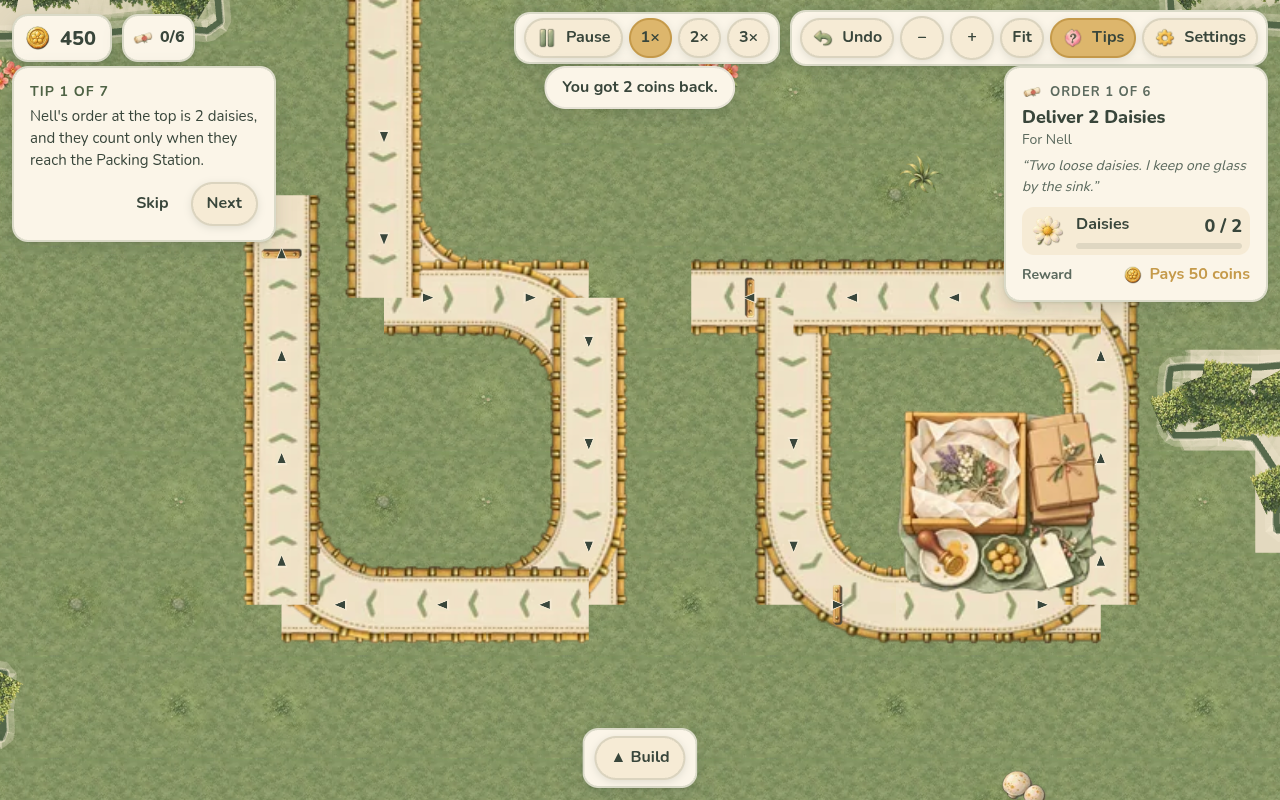
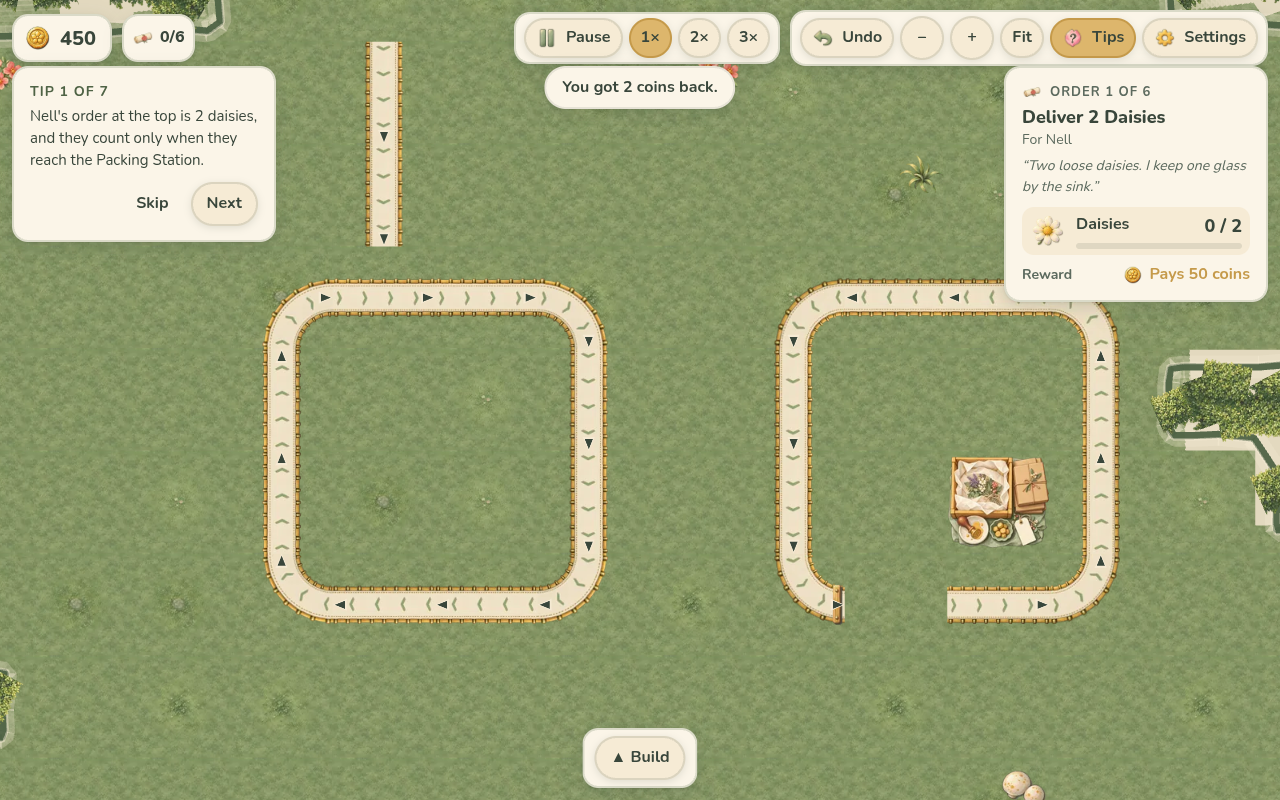
Belts: one one-tile piece per belt; pop-in tween ends at tile scale, not raw art size
The spawn tween on every placed structure ended at scale 1 (the 2x source art), so
belts drew two tiles wide and overlapped their neighbours' pieces, and machines grew
after placement. Size is now set after the first real frame and the tween settles on
the tile scale. Belt piece choice moves to src/game/beltPiece.ts with unit tests;
tools/beltloop.mjs lays true rings and asserts one 64 px piece per tile.

diff --git a/src/game/PetalScene.ts b/src/game/PetalScene.ts
@@ -5,7 +5,7 @@ import type { GameStore } from '../app/store';
 import { BELT_TICKS } from '../sim/data/balance';
 import { PLOTS, tilesOf } from '../sim/data/plots';
 import { STRUCTURES } from '../sim/data/structures';
-import { DX, DY, dirBetween, isOpenTile, opposite, rotateCCW, rotateCW } from '../sim/grid';
+import { DX, DY, dirBetween, isOpenTile, opposite } from '../sim/grid';
 import type { Dir, SimEvent, Structure, World } from '../sim/types';
 import { CameraController } from './camera';
 import { COLORS, DEPTH, TILE } from './constants';
@@ -13,6 +13,7 @@ import { placeLabelInView, type ScreenBox } from './labelPlace';
 import { DISC_SIZE, makeOverlayTextures } from './overlays';
 import { beltProgressT, itemPositionOnBelt, tileCenter } from './paths';
 import { SpriteRegistry } from './sprites';
+import { choosePiece } from './beltPiece';
 import { offset, organicOutline, resample } from './outline';
 import { COPY, fmt } from '../ui/strings';
 
@@ -144,7 +145,15 @@ export class PetalScene extends Phaser.Scene {
 
   private setImage(img: Phaser.GameObjects.Image, key: string, extraAngle = 0): void {
     const ref = this.sprites.get(key);
-    if (img.texture.key !== ref.texture || (ref.frame !== undefined && img.frame.name !== ref.frame)) img.setTexture(ref.texture, ref.frame);
+    if (img.texture.key !== ref.texture || (ref.frame !== undefined && img.frame.name !== ref.frame)) {
+      // Frames can differ in source size (144 px beds, 128 px machines); keep the display
+      // size the view chose so a texture swap never changes how big the building looks.
+      const w = img.displayWidth;
+      const h = img.displayHeight;
+      const hadReal = img.texture.key !== '__MISSING';
+      img.setTexture(ref.texture, ref.frame);
+      if (hadReal) img.setDisplaySize(w, h);
+    }
     img.setAngle(ref.angle + extraAngle);
   }
 
@@ -374,12 +383,7 @@ export class PetalScene extends Phaser.Scene {
     pennant.setDisplaySize(TILE * 0.5, TILE * 0.5);
     const disc = this.add.image(c.x, c.y, 'disc.blocked').setVisible(false).setDepth(DEPTH.badge + 1);
     disc.setDisplaySize(DISC_SIZE, DISC_SIZE);
-    const v: StructureView = { id: s.id, main, endcap, arrow, pennant, disc, beltSig: '', feeders: [], feedersAt: -1, arrowFacing: -1, sized: false };
-    if (!this.store.reducedMotion) {
-      main.setScale(0.6);
-      this.tweens.add({ targets: main, scaleX: 1, scaleY: 1, duration: 220, ease: 'Back.easeOut' });
-    }
-    return v;
+    return { id: s.id, main, endcap, arrow, pennant, disc, beltSig: '', feeders: [], feedersAt: -1, arrowFacing: -1, sized: false };
   }
 
   private feedersCached(v: StructureView, s: Structure): Dir[] {
@@ -424,12 +428,11 @@ export class PetalScene extends Phaser.Scene {
     const c = tileCenter(s.x, s.y);
     const def = STRUCTURES[s.kind];
     if (!v.sized) {
-      // Structures never move and each role has one size: set these once.
+      // Structures never move: set position and depth once. (Size is set below, after the
+      // first real texture is in, because the placeholder texture is a different size.)
       v.main.setPosition(c.x, c.y);
       v.endcap.setPosition(c.x, c.y);
-      if (s.kind === 'belt') v.main.setDisplaySize(TILE, TILE).setDepth(DEPTH.belt);
-      else v.main.setDisplaySize(STRUCTURE_SIZE, STRUCTURE_SIZE).setDepth(DEPTH.structure + s.y * 0.01);
-      v.sized = true;
+      v.main.setDepth(s.kind === 'belt' ? DEPTH.belt : DEPTH.structure + s.y * 0.01);
     }
     const tick = world.tick;
     const reduced = this.store.reducedMotion;
@@ -442,21 +445,8 @@ export class PetalScene extends Phaser.Scene {
       const sig = `${frame}|${s.facing}|${feeders.join('')}|${this.store.layoutVersion}`;
       if (sig !== v.beltSig) {
         v.beltSig = sig;
-        const behind = opposite(s.facing);
-        const left = rotateCCW(s.facing);
-        const right = rotateCW(s.facing);
-        let key: string;
-        let angle: number;
-        if (feeders.includes(behind) || feeders.length === 0 || (feeders.includes(left) && feeders.includes(right))) {
-          key = `belt.straight.${frame}`;
-          angle = FACING_ANGLE[s.facing];
-        } else if (feeders.includes(right)) {
-          key = `belt.corner.cw.${frame}`;
-          angle = (s.facing - 2) * 90;
-        } else {
-          key = `belt.corner.ccw.${frame}`;
-          angle = s.facing * 90;
-        }
+        const { piece, angle } = choosePiece(s.facing, feeders);
+        const key = piece === 'straight' ? `belt.straight.${frame}` : `belt.corner.${piece}.${frame}`;
         this.setImage(v.main, key, angle);
         const ahead = this.store.sim.at(s.x + DX[s.facing], s.y + DY[s.facing]);
         v.endcap.setVisible(!ahead).setAngle(FACING_ANGLE[s.facing]);
@@ -508,6 +498,22 @@ export class PetalScene extends Phaser.Scene {
         state = reduced ? (since < 3 ? 'receive0' : 'idle') : (`receive${Math.min(3, Math.floor(since / 2))}` as typeof state);
       }
       this.setImage(v.main, packingKey(state));
+    }
+
+    if (!v.sized) {
+      // Each role has one on-screen size, the same one the build ghost uses; set it once,
+      // now that the real frame is loaded, so the art's source size never leaks through.
+      const size = s.kind === 'belt' ? TILE : STRUCTURE_SIZE;
+      v.main.setDisplaySize(size, size);
+      v.sized = true;
+      if (!this.store.reducedMotion) {
+        // Pop in from 60% of the tile scale and settle on it exactly, so the placed
+        // building ends the same size as its ghost (never scale 1, the raw 2x art).
+        const sx = v.main.scaleX;
+        const sy = v.main.scaleY;
+        v.main.setScale(sx * 0.6, sy * 0.6);
+        this.tweens.add({ targets: v.main, scaleX: sx, scaleY: sy, duration: 220, ease: 'Back.easeOut' });
+      }
     }
 
     // Ink exit arrow on the facing edge of everything that outputs (constant 14×12 CSS px).

diff --git a/src/game/beltPiece.test.ts b/src/game/beltPiece.test.ts
@@ -1,0 +1,43 @@
+import { describe, expect, it } from 'vitest';
+import { choosePiece } from './beltPiece';
+import type { Dir } from '../sim/types';
+
+const N: Dir = 0, E: Dir = 1, S: Dir = 2, W: Dir = 3;
+
+describe('belt piece choice', () => {
+  it('fed from behind or unfed is a straight piece turned to the exit', () => {
+    expect(choosePiece(E, [W])).toEqual({ piece: 'straight', angle: 0 });
+    expect(choosePiece(S, [N])).toEqual({ piece: 'straight', angle: 90 });
+    expect(choosePiece(W, [E])).toEqual({ piece: 'straight', angle: 180 });
+    expect(choosePiece(N, [S])).toEqual({ piece: 'straight', angle: 270 });
+    expect(choosePiece(N, [])).toEqual({ piece: 'straight', angle: 270 });
+  });
+  it('fed from the side turns, one corner piece per tile, in every rotation', () => {
+    // Art: cw enters west exits south; ccw enters west exits north.
+    expect(choosePiece(S, [W])).toEqual({ piece: 'cw', angle: 0 });
+    expect(choosePiece(W, [N])).toEqual({ piece: 'cw', angle: 90 });
+    expect(choosePiece(N, [E])).toEqual({ piece: 'cw', angle: 180 });
+    expect(choosePiece(E, [S])).toEqual({ piece: 'cw', angle: 270 });
+    expect(choosePiece(N, [W])).toEqual({ piece: 'ccw', angle: 0 });
+    expect(choosePiece(E, [N])).toEqual({ piece: 'ccw', angle: 90 });
+    expect(choosePiece(S, [E])).toEqual({ piece: 'ccw', angle: 180 });
+    expect(choosePiece(W, [S])).toEqual({ piece: 'ccw', angle: 270 });
+  });
+  it('behind wins over a side feeder, and both sides read as a straight merge', () => {
+    expect(choosePiece(E, [W, N]).piece).toBe('straight');
+    expect(choosePiece(E, [N, S]).piece).toBe('straight');
+    expect(choosePiece(E, [S, W, N]).piece).toBe('straight');
+  });
+  it('every facing and feeder set yields exactly one piece with a right-angle rotation', () => {
+    for (const f of [N, E, S, W]) {
+      for (let m = 0; m < 16; m++) {
+        const feeders = ([N, E, S, W] as Dir[]).filter((d) => m & (1 << d));
+        const r = choosePiece(f, feeders);
+        expect(['straight', 'cw', 'ccw']).toContain(r.piece);
+        expect(r.angle % 90).toBe(0);
+        expect(r.angle).toBeGreaterThanOrEqual(0);
+        expect(r.angle).toBeLessThan(360);
+      }
+    }
+  });
+});

diff --git a/src/game/beltPiece.ts b/src/game/beltPiece.ts
@@ -1,0 +1,28 @@
+import { opposite, rotateCCW, rotateCW } from '../sim/grid';
+import type { Dir } from '../sim/types';
+
+export type BeltPiece = 'straight' | 'cw' | 'ccw';
+
+/**
+ * Which single sprite a belt tile shows, from its own facing (exit side) and the sides
+ * that feed it. Art convention: `straight` travels west to east; `cw` enters from the
+ * west and exits south; `ccw` enters from the west and exits north. `angle` rotates the
+ * art so its exit matches `facing`. Exactly one piece per tile, never two.
+ */
+export function choosePiece(facing: Dir, feeders: readonly Dir[]): { piece: BeltPiece; angle: number } {
+  const behind = opposite(facing);
+  const left = rotateCCW(facing);
+  const right = rotateCW(facing);
+  const fedLeft = feeders.includes(left);
+  const fedRight = feeders.includes(right);
+  if (feeders.includes(behind) || feeders.length === 0 || (fedLeft && fedRight)) {
+    // Straight art points east (facing 1); turn it to the exit side.
+    return { piece: 'straight', angle: ((facing - 1 + 4) % 4) * 90 };
+  }
+  if (fedRight) {
+    // cw art exits south (facing 2).
+    return { piece: 'cw', angle: ((facing - 2 + 4) % 4) * 90 };
+  }
+  // ccw art exits north (facing 0).
+  return { piece: 'ccw', angle: facing * 90 };
+}

diff --git a/producer/STATUS.md b/producer/STATUS.md
@@ -1,7 +1,7 @@
 # Status
 
 **Phase:** Phases 1–3 complete · Phase 4 polish done for this pass · final art and final copy wired
-**Last updated:** Nov 1, 2026 (late evening)
+**Last updated:** Nov 2, 2026 (early morning)
 
 ## What works right now (plain English)
 - Start a garden, read Nell's order, plant a Daisy Bed, drag belts to the crate, watch daisies ride in, get paid, unlock the next tool. All six orders work end to end, then the market opens (goods sell on arrival, every tool available).
@@ -13,6 +13,10 @@
 - Full keyboard play, dialogs trap focus, one reduced-motion flag, sound/music toggles persist. The real sound set is wired.
 - Autosave, Continue / New Game with confirmation, corrupted-save backup, schema v2 with a v1 migration.
 - Default zoom keeps tiles at least 48 px; at 1366×768 the garden sits between the tip card and the order card instead of under them; the fit re-runs on window resize (Steam-plan guardrail).
+
+## Round of Nov 2, 00:50 (Allie's playtest: belts, size jump, overlap)
+- **Belts fixed (playtest item 1).** Every placed building popped in with a scale tween that ended at scale 1, which is the raw 2x art, so each belt tile was drawn two tiles wide and the next tile's corner or straight piece showed on top of it ("straight and turning at the same time"). The pop-in now ends at the tile size, and the view sizes a building only after its real sprite is loaded. Each belt tile shows exactly one piece (straight, clockwise corner, counter-clockwise corner, or an end stop on a dead end) chosen from its neighbors by `src/game/beltPiece.ts`, which has a unit test for all four rotations of each piece, merges, and every feeder combination. `tools/beltloop.mjs` lays two rings by dragging (one each way), a side merge, a rotated belt and a removed mid-line belt, then checks every belt tile draws one 64 px piece. Screenshot 18 shows both loops.
+- The same bug made placed machines bigger than their ghost (item 2) and made neighbors look overlapped (item 4); both are covered by scripted checks in the next step.
 
 ## Round of Nov 1, 20:47 (Sugar Belt music, irregular plot)
 - **Music is now Allie's Sugar Belt soundtrack**, ported as `src/app/music.ts` and generated with Web Audio at runtime (music box, marimba, lo-fi keys and breathers over gentle progressions, modulating between keys). It starts on the first click with a 4 s fade, the music toggle and pause fade work as before, a hidden tab suspends it, and the arrangement fills out as the factory grows (machines and items on belts raise the intensity). No music file is downloaded any more: `assets/audio/music.*` stay as the audio team's source but are not loaded, and the lighter copies are gone. `tools/music-check.mjs` renders it offline: peak −11 dBFS, RMS −28 dBFS, no clipping, no silences, which matches the Sugar Belt preview recording (peak −10.4, mean −26.8).
